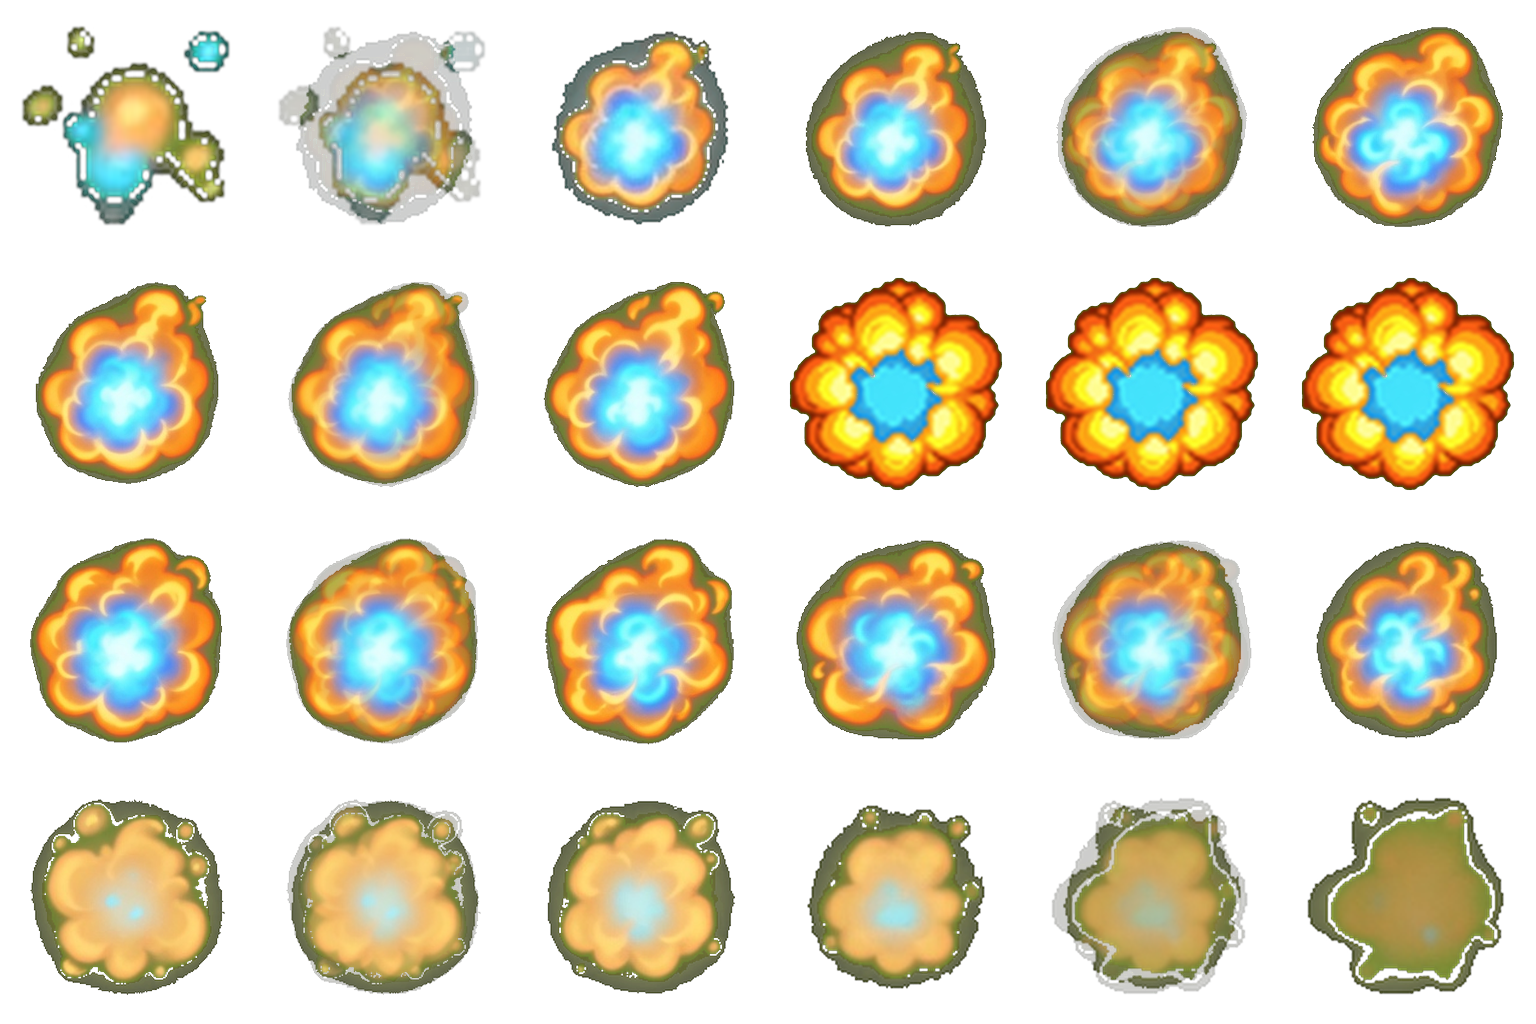
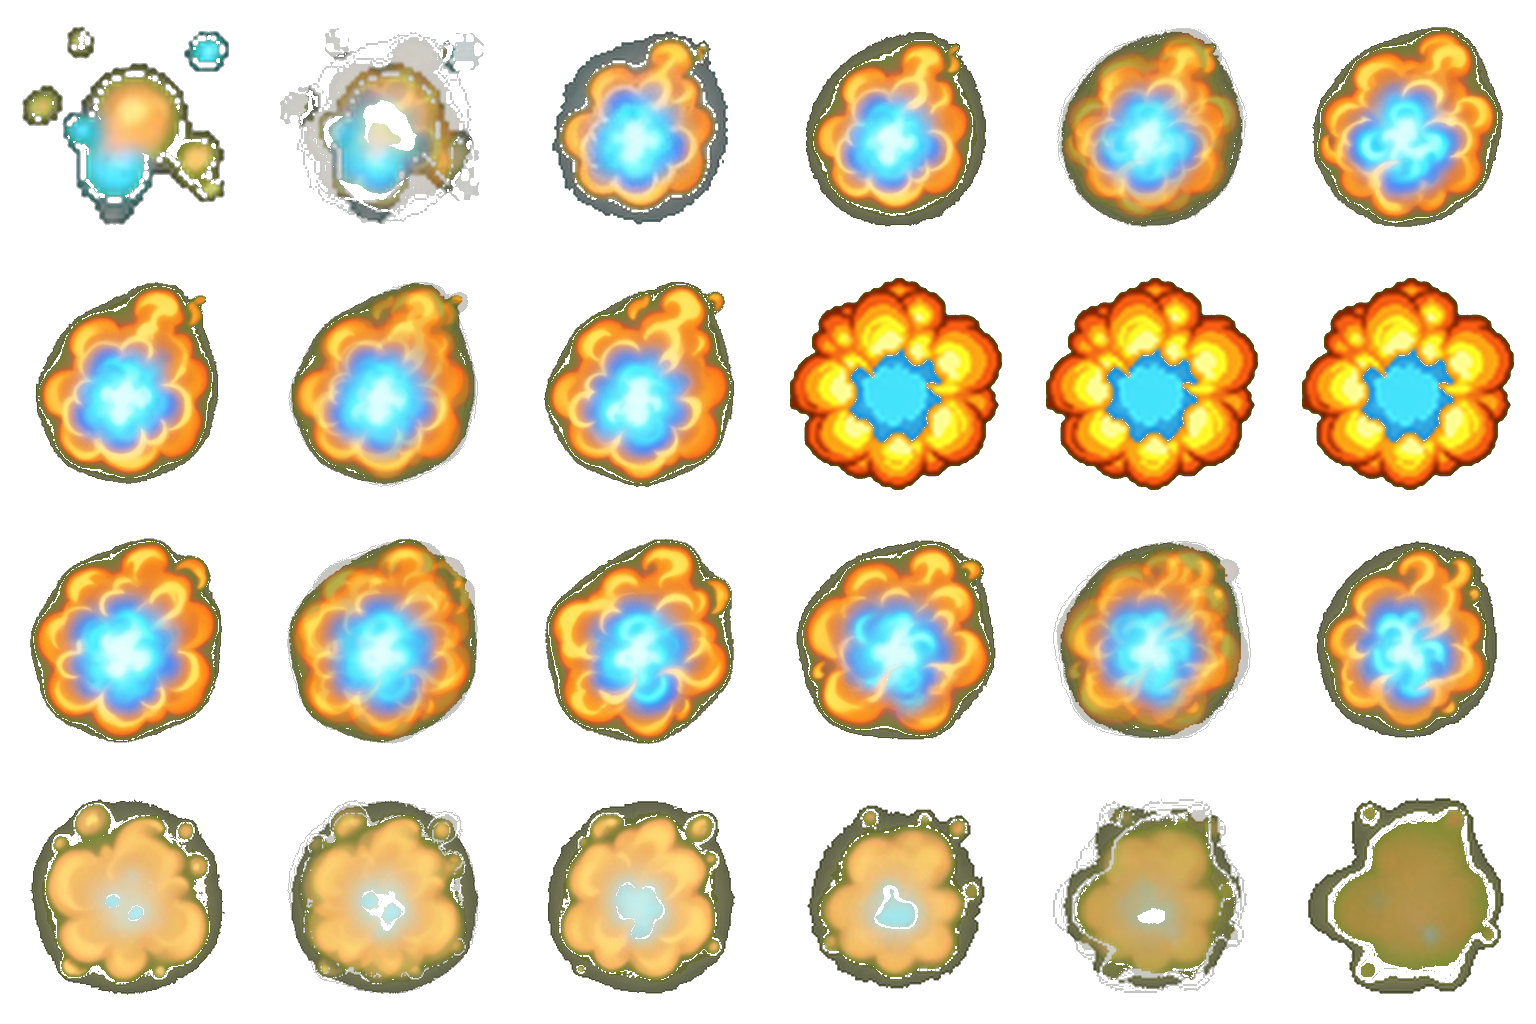
fix(fx): ship cleaner bomb flame blast without HUD tile overlays.
Use the arc-flare explosion sheets and stop drawing orange cell fills/connectors over the flame sprites.

diff --git a/src/original-game/Engine/game-app.ts b/src/original-game/Engine/game-app.ts
@@ -5752,39 +5752,15 @@ export class GameApp {
 
   private drawExplosionFeedback(): void {
     const feedback = this.getExplosionFeedbackReadModel();
-    if (feedback.cells.length === 0 && feedback.chainReactions.length === 0) {
+    if (feedback.chainReactions.length === 0) {
       return;
     }
 
+    // Do NOT paint orange tile fills/borders or thick blast connectors — they
+    // read as cheap HUD boxes on top of the flame sprites. Chain sparks only.
     this.ctx.save();
-    for (const cell of feedback.cells) {
-      const alpha = Math.min(1, Math.max(0, cell.remainingMs) / FLAME_DISSIPATE_TAIL_MS);
-      const toxic = cell.style === "toxic";
-      this.ctx.fillStyle = toxic
-        ? `rgba(54, 255, 151, ${0.1 + alpha * 0.08})`
-        : `rgba(255, 76, 28, ${0.11 + alpha * 0.09})`;
-      this.ctx.fillRect(cell.x, cell.y, cell.width, cell.height);
-      this.ctx.strokeStyle = toxic
-        ? `rgba(152, 255, 197, ${0.32 + alpha * 0.26})`
-        : `rgba(255, 197, 82, ${0.34 + alpha * 0.28})`;
-      this.ctx.lineWidth = 1;
-      this.ctx.strokeRect(cell.x + 0.5, cell.y + 0.5, cell.width - 1, cell.height - 1);
-    }
-
     this.ctx.lineCap = "round";
     this.ctx.globalCompositeOperation = "lighter";
-    for (const connector of feedback.connectors) {
-      const toxic = connector.style === "toxic";
-      this.ctx.strokeStyle = toxic ? "rgba(90, 255, 165, 0.25)" : "rgba(255, 108, 38, 0.28)";
-      this.ctx.lineWidth = 10;
-      this.ctx.beginPath();
-      this.ctx.moveTo(connector.fromX, connector.fromY);
-      this.ctx.lineTo(connector.toX, connector.toY);
-      this.ctx.stroke();
-      this.ctx.strokeStyle = toxic ? "rgba(192, 255, 213, 0.62)" : "rgba(255, 226, 126, 0.68)";
-      this.ctx.lineWidth = 1.5;
-      this.ctx.stroke();
-    }
 
     for (const effect of feedback.chainReactions) {
       const progress = Math.min(1, effect.elapsedMs / CHAIN_REACTION_FEEDBACK_MS);